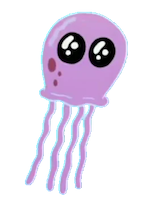
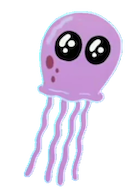
animatie, kwallen en 2e bel aangepast

diff --git a/styles/style.css b/styles/style.css
@@ -124,6 +124,10 @@ h3{
   margin-top: 1.5em;
 }
 
+#bel5 h3:first-of-type{
+  margin-top: 0.2em;
+}
+
 /* Bellen - platte tekst */
 dialog form p{
   font-family: var(--fontPlatteTekst);
@@ -522,10 +526,159 @@ ol li:nth-of-type(3) {
   animation-name: kwal3; 
   animation-duration: 10s; 
   animation-iteration-count: infinite; 
-  /* animation-direction: reverse; */
 }
 
+/* ********** */
+/* kwal 4 */
+@keyframes kwal4 {
+  0%{
+    transform: translateY(8em); 
+    animation-timing-function: ease-in-out;
+  }
 
+  15%{
+    transform: translateY(4.5em); 
+    animation-timing-function: ease-in-out;
+  }
+
+  20%{
+    transform: translateY(5em); 
+    animation-timing-function: ease-in-out;
+
+  }
+
+ 25%{
+    transform: translateY(4.5em); 
+    animation-timing-function: ease-in-out;
+  }
+
+
+
+  40%{
+    transform: translateY(0.5em); 
+    animation-timing-function: ease-in-out;
+  }
+
+  45%{
+    transform: translateY(1em); 
+    animation-timing-function: ease-in-out;
+  }
+  50%{
+    transform: translateY(0.5em); 
+    animation-timing-function: ease-in-out;
+  }
+
+  55%{
+    transform: translateY(1em); 
+    animation-timing-function: ease-in-out;
+  }
+
+  
+
+  75%{
+    transform: translateY(4.5em); 
+    animation-timing-function: ease-in-out;
+  }
+
+  80%{
+    transform: translateY(5em); 
+    animation-timing-function: ease-in-out;
+  }
+
+  85%{
+    transform: translateY(4.5em); 
+    animation-timing-function: ease-in-out;
+  }
+
+
+ 
+  100% {
+    transform: translateY(8em); 
+    animation-timing-function: ease-in-out;
+  }
+}
+
+ol li:nth-of-type(4) {
+  animation-name: kwal4; 
+  animation-duration: 15s; 
+  animation-iteration-count: infinite; 
+}
+
+/* ************ */
+/* kwal 5 */
+@keyframes kwal5 {
+  0%{
+    transform: translateY(0.5em); 
+    animation-timing-function: ease-in-out;
+  }
+
+  15%{
+    transform: translateY(1em); 
+    animation-timing-function: ease-in-out;
+  }
+
+  20%{
+    transform: translateY(0.5em); 
+    animation-timing-function: ease-in-out;
+
+  }
+
+ 25%{
+    transform: translateY(1em); 
+    animation-timing-function: ease-in-out;
+  }
+
+
+
+  40%{
+    transform: translateY(4.5em); 
+    animation-timing-function: ease-in-out;
+  }
+
+  45%{
+    transform: translateY(5em); 
+    animation-timing-function: ease-in-out;
+  }
+  50%{
+    transform: translateY(4.5em); 
+    animation-timing-function: ease-in-out;
+  }
+
+  55%{
+    transform: translateY(5em); 
+    animation-timing-function: ease-in-out;
+  }
+
+  
+
+  75%{
+    transform: translateY(1em); 
+    animation-timing-function: ease-in-out;
+  }
+
+  80%{
+    transform: translateY(0.5em); 
+    animation-timing-function: ease-in-out;
+  }
+
+  85%{
+    transform: translateY(1em); 
+    animation-timing-function: ease-in-out;
+  }
+
+
+ 
+  100% {
+    transform: translateY(0.5em); 
+    animation-timing-function: ease-in-out;
+  }
+}
+
+ol li:nth-of-type(5) {
+  animation-name: kwal5; 
+  animation-duration: 20s; 
+  animation-iteration-count: infinite; 
+}
 
 /* ZERO STATE - animatie h1 */
 @keyframes zeroState{
@@ -545,7 +698,7 @@ ol li:nth-of-type(3) {
 
 h1{
   animation-name: zeroState; 
-  animation-duration: 10s; 
+  animation-duration: 20s; 
   animation-iteration-count: 1; 
   animation-fill-mode: forwards;
 }

diff --git a/index.html b/index.html
@@ -70,6 +70,7 @@
 
 				<h3>Waar komt deze kwal nog meer in voor: </h3>
 				<p>het boek  Tales from Bikini Bottom. Ook komt het voor in de videospellen: Battle for Bikini Bottom, The Yellow Avenger, the DS versie van SpongeBob's Atlantis SquarePantis, Demolition Sponge, SpongeBob: Patty Pursuit, Battle for Bikini Bottom: Rehydrated, Nickelodeon All-Star Brawl.</p>
+			</form>
 		</dialog>
 
 		<dialog id="bel2" class="onzichtbaar">
@@ -161,7 +162,7 @@
 				<p>Spongebob en Patrick gaan kwallenvissen. Tijdens het kwallenvissen neemt een Alien een normale kwal over. Zo onstaat de Jellien. De jellien neemt patrick over en laat de overgenomen alien patrick Jelliens verspreiden, zodat zij anderen kunnen overnemen met als doel dat de Alien de macht heeft over Bikini Bottom. Spongebob heeft onbewust voor een dag een jellien geadopteerd. Toen hij erachter kwam dat ze kwaadaardig waren heeft hij samen met Sandy de Alien verslagen.</p>
 				
 				<h3>Grappig feitje:</h3>
-				<p>Normale kwallenvissen steken/elektrocuteren. Jelliens kunnen dat niet. Ook hebben jelliens minder vlekken dan normale kwalvissen.</p>
+				<p>Normale kwallenvissen steken. Jelliens kunnen dat niet. Ook hebben jelliens minder vlekken dan normale kwalvissen.</p>
 				
 				<h3>Zwakke plek:</h3>
 				<p> Mayonaise. Wanneer een Jellien mayonaise aanraakt, dan veranderen ze in groene drab.</p>
@@ -170,7 +171,7 @@
 				<p>Jelliens vinden mosterd lekker</p>
 
 				<h3>Waar komt deze kwal nog meer in voor:</h3>
-				<p>Jelliens komen alleen voor in aflevering 'planet of the jellyfish'. De Jelliens delen hun naam met een vijand in Super Paper Mario, maar de Jelliens in dat spel hebben een heel ander ontwerp en zijn minder agressief dan deze wezens.</p>
+				<p>De Jelliens delen hun naam met een vijand in Super Paper Mario, maar de Jelliens in dat spel hebben een heel ander ontwerp en zijn minder agressief dan deze wezens.</p>
 				
 			</form>
 		</dialog>
